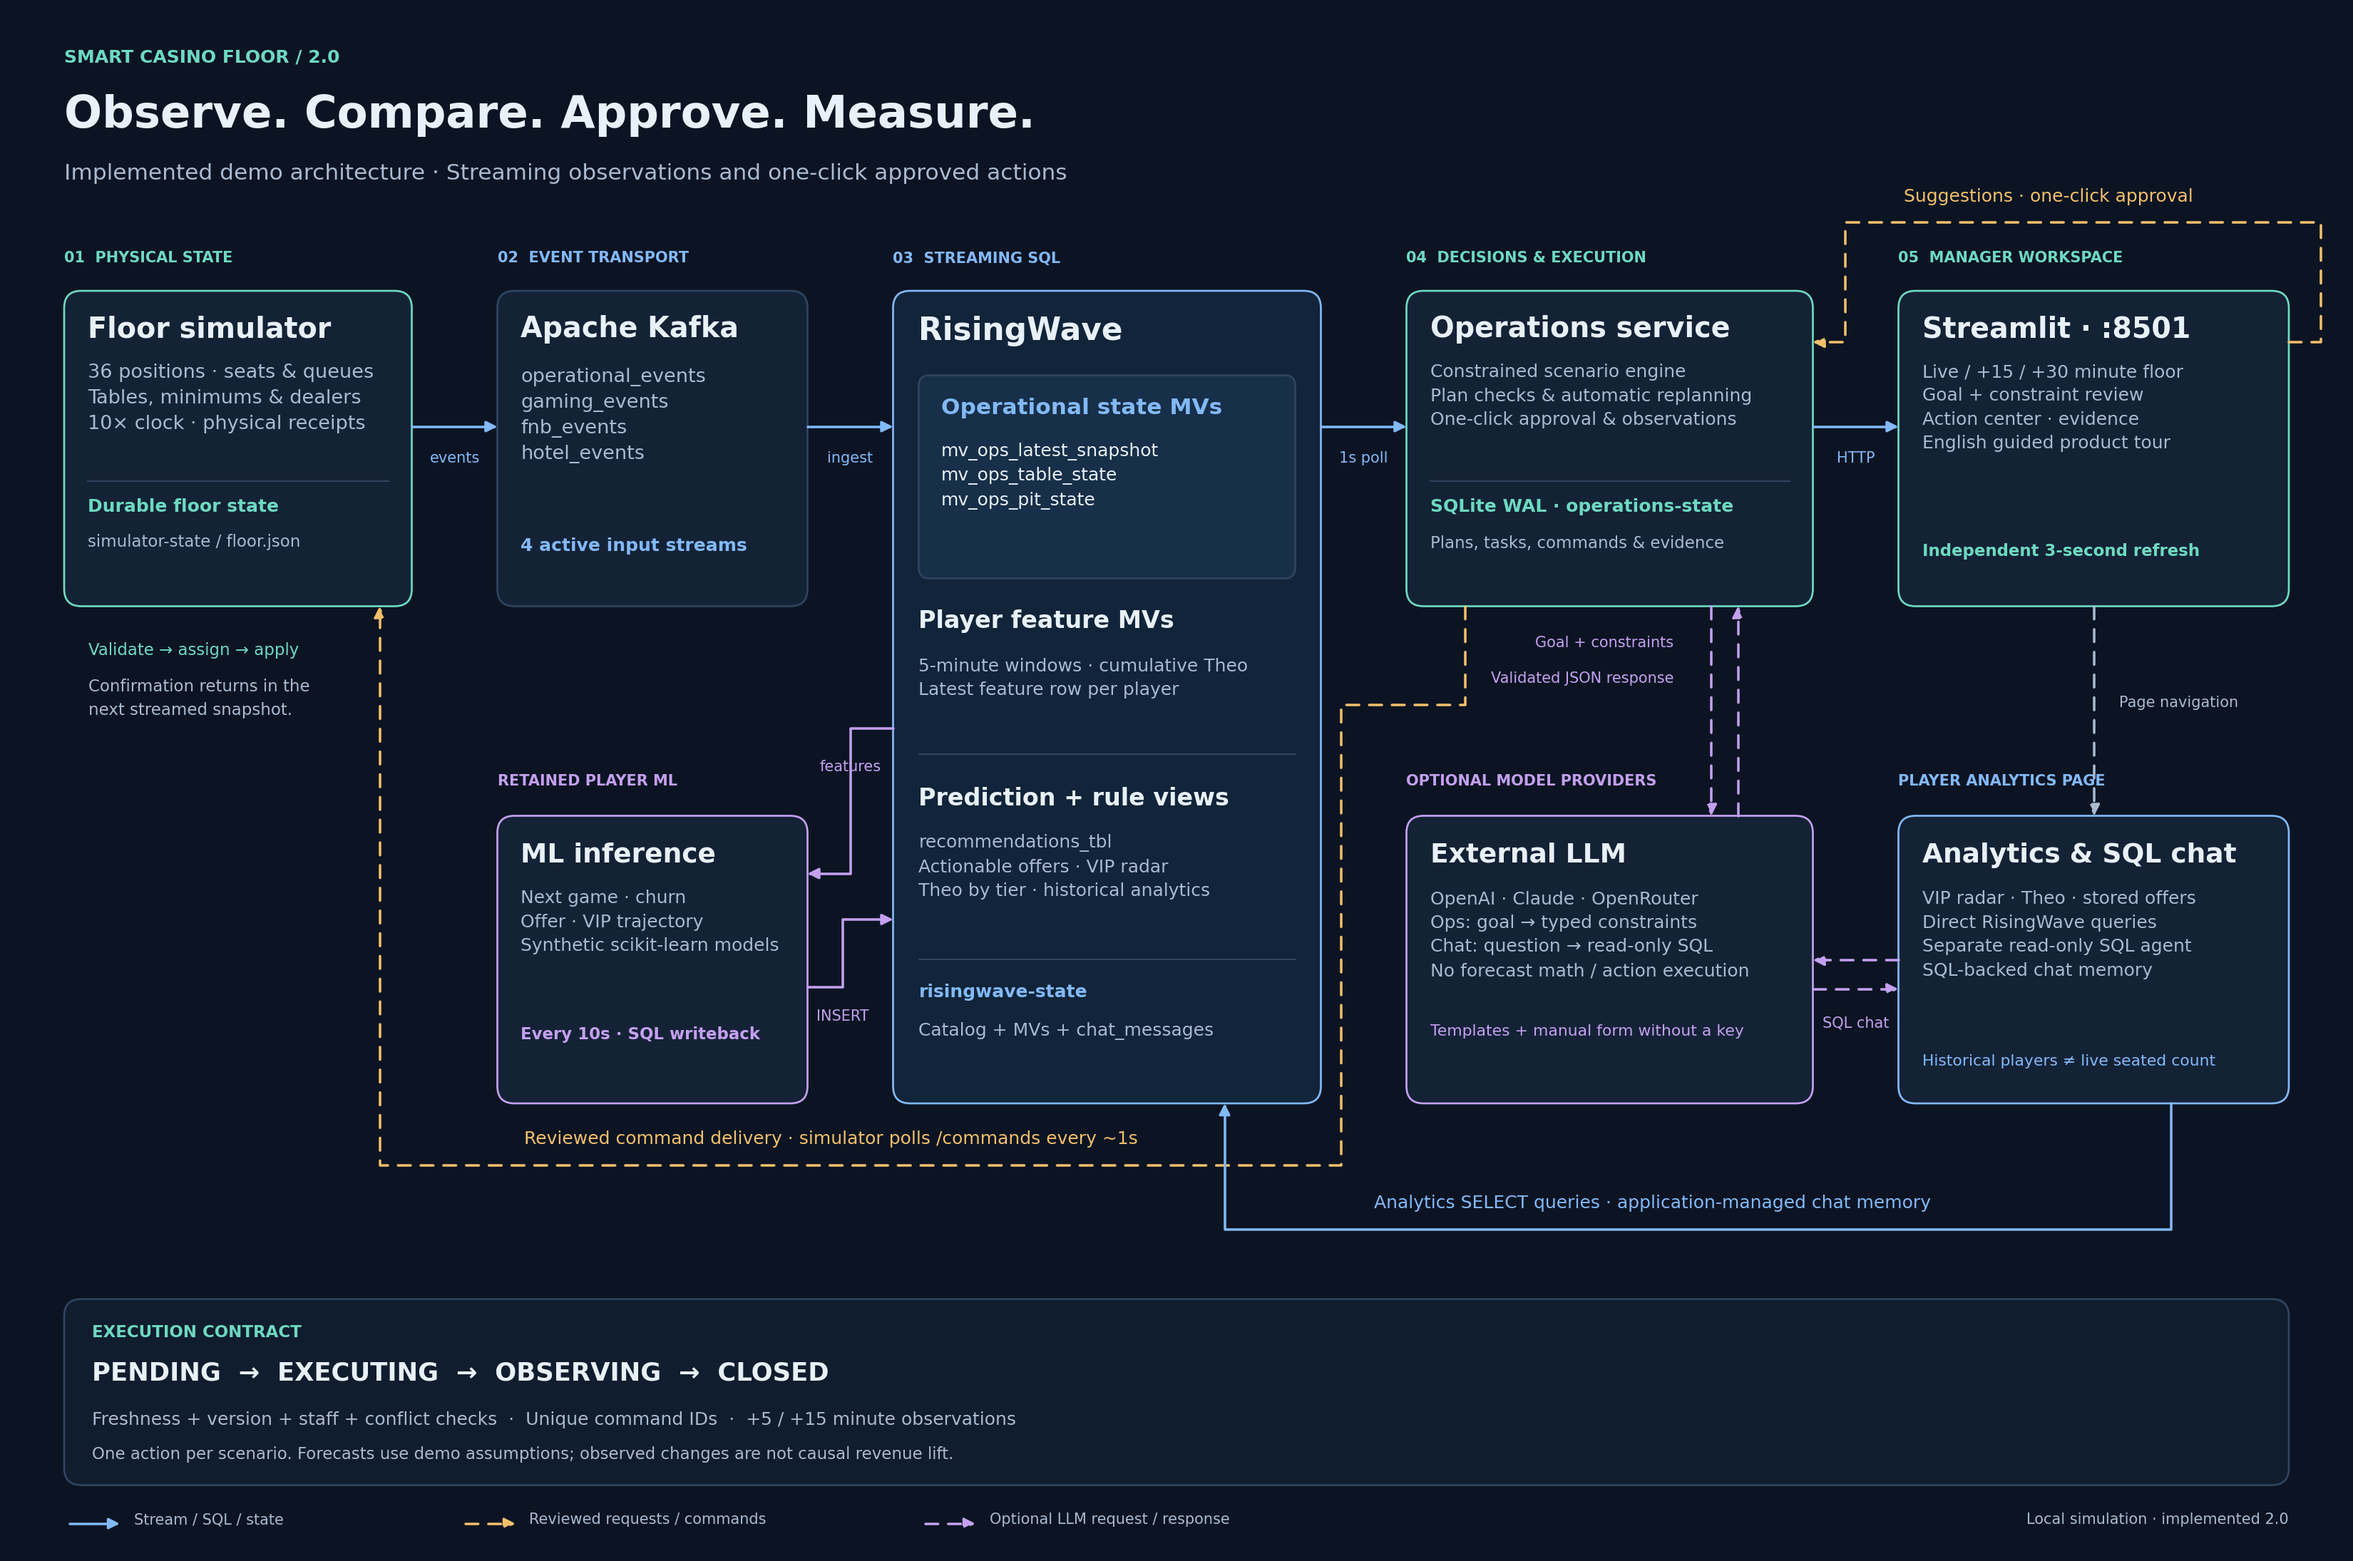
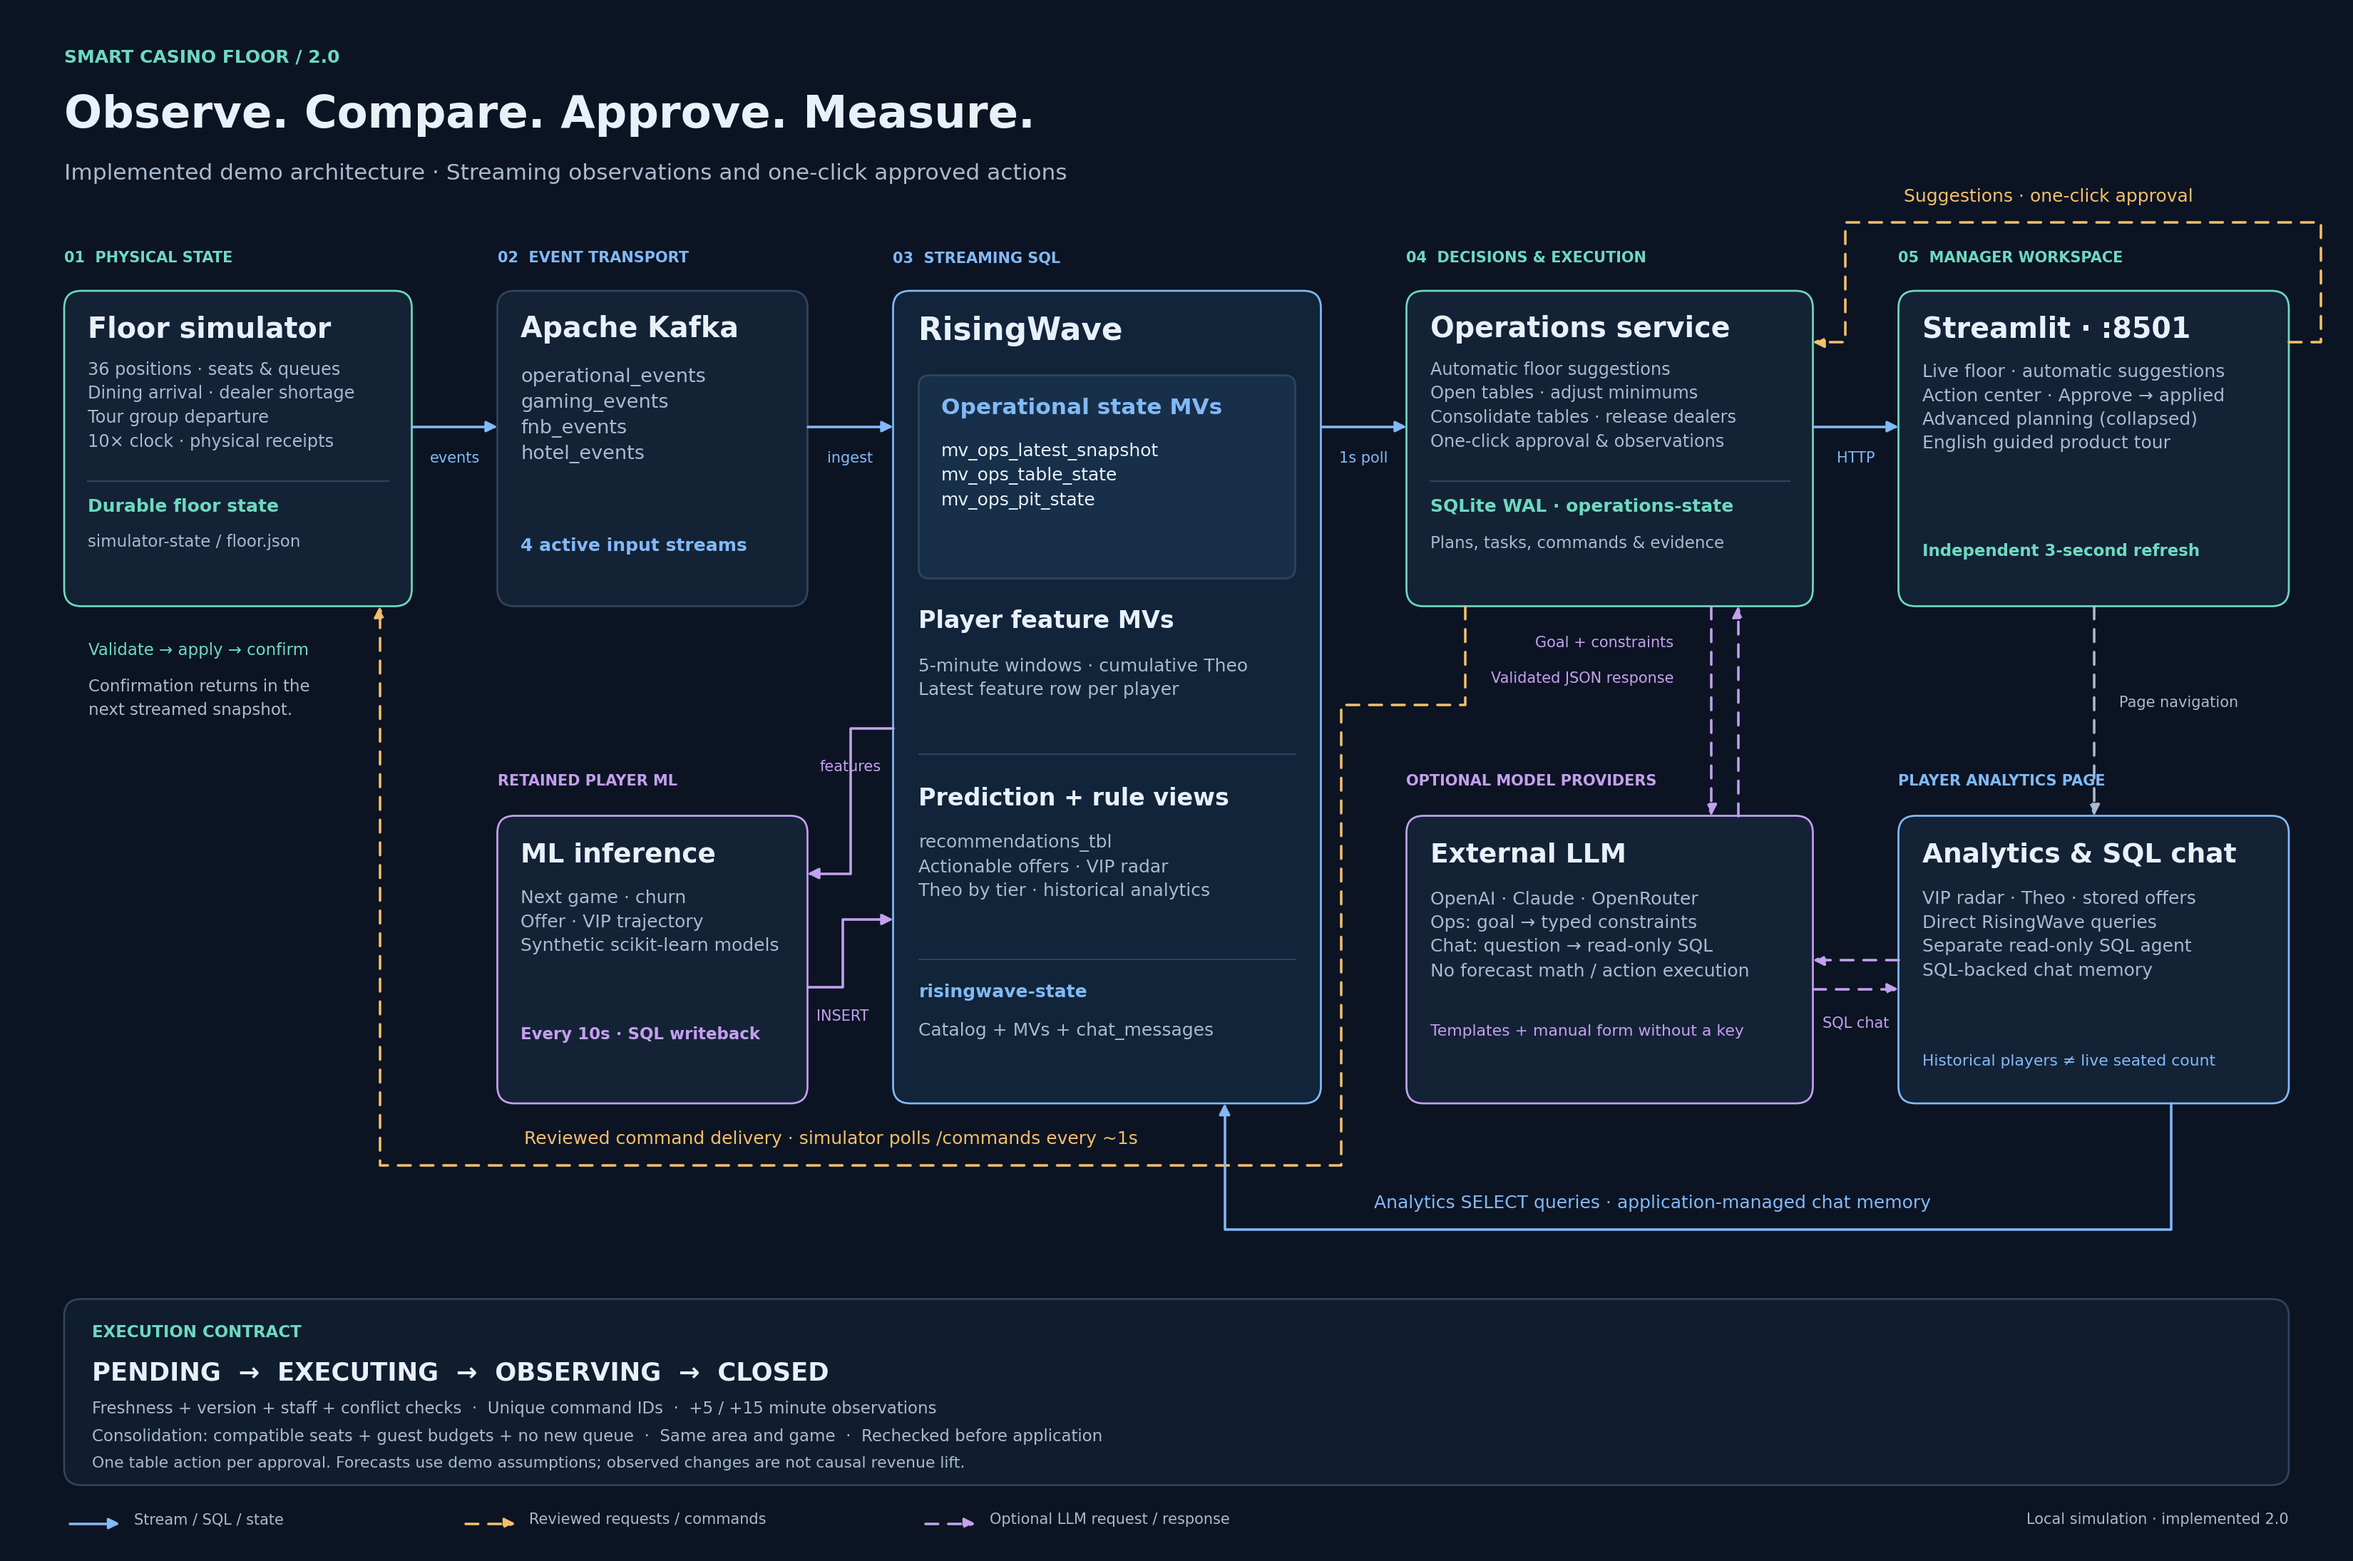
Update architecture diagram for operational demo scenarios

diff --git a/architecture.py b/architecture.py
@@ -59,7 +59,7 @@ def render():
     badge(60, 235, "01  PHYSICAL STATE", TEAL)
     box(60, 272, 325, 295, TEAL)
     label(82, 295, "Floor simulator", 19, TEXT, "bold")
-    label(82, 340, "36 positions · seats & queues\nTables, minimums & dealers\n10× clock · physical receipts", 13, MUTED)
+    label(82, 338, "36 positions · seats & queues\nDining arrival · dealer shortage\nTour group departure\n10× clock · physical receipts", 11.5, MUTED)
     ax.plot([82, 363], [450, 450], color=BORDER, lw=1)
     label(82, 466, "Durable floor state", 12, TEAL, "bold")
     label(82, 499, "simulator-state / floor.json", 11, MUTED)
@@ -88,7 +88,7 @@ def render():
     badge(1315, 235, "04  DECISIONS & EXECUTION", TEAL)
     box(1315, 272, 380, 295, TEAL)
     label(1337, 295, "Operations service", 19, TEXT, "bold")
-    label(1337, 340, "Constrained scenario engine\nPlan checks & automatic replanning\nOne-click approval & observations", 12, MUTED)
+    label(1337, 338, "Automatic floor suggestions\nOpen tables · adjust minimums\nConsolidate tables · release dealers\nOne-click approval & observations", 11.5, MUTED)
     ax.plot([1337, 1673], [450, 450], color=BORDER, lw=1)
     label(1337, 466, "SQLite WAL · operations-state", 12, TEAL, "bold")
     label(1337, 501, "Plans, tasks, commands & evidence", 11, MUTED)
@@ -96,7 +96,7 @@ def render():
     badge(1775, 235, "05  MANAGER WORKSPACE", TEAL)
     box(1775, 272, 365, 295, TEAL)
     label(1797, 295, "Streamlit · :8501", 19, TEXT, "bold")
-    label(1797, 340, "Live / +15 / +30 minute floor\nGoal + constraint review\nAction center · evidence\nEnglish guided product tour", 12, MUTED)
+    label(1797, 340, "Live floor · automatic suggestions\nAction center · Approve → applied\nAdvanced planning (collapsed)\nEnglish guided product tour", 12, MUTED)
     label(1797, 508, "Independent 3-second refresh", 11, TEAL, "bold")
 
     for start, end in [(385, 465), (755, 835), (1235, 1315), (1695, 1775)]:
@@ -116,7 +116,7 @@ def render():
                      (1254, 1090), (355, 1090), (355, 567)]
     line(command_route, GOLD, True)
     label(490, 1057, "Reviewed command delivery · simulator polls /commands every ~1s", 12, GOLD)
-    label(83, 601, "Validate → assign → apply", 11, TEAL)
+    label(83, 601, "Validate → apply → confirm", 11, TEAL)
     label(83, 635, "Confirmation returns in the\nnext streamed snapshot.", 11, MUTED)
 
     # Player ML is a separate analytics loop; it does not control operational tasks.
@@ -161,8 +161,9 @@ def render():
     box(60, 1215, 2080, 174, BORDER, "#101d2e")
     label(86, 1239, "EXECUTION CONTRACT", 11, TEAL, "bold")
     label(86, 1273, "PENDING  →  EXECUTING  →  OBSERVING  →  CLOSED", 17, TEXT, "bold")
-    label(86, 1320, "Freshness + version + staff + conflict checks  ·  Unique command IDs  ·  +5 / +15 minute observations", 12, MUTED)
-    label(86, 1353, "One action per scenario. Forecasts use demo assumptions; observed changes are not causal revenue lift.", 11, MUTED)
+    label(86, 1310, "Freshness + version + staff + conflict checks  ·  Unique command IDs  ·  +5 / +15 minute observations", 11, MUTED)
+    label(86, 1336, "Consolidation: compatible seats + guest budgets + no new queue  ·  Same area and game  ·  Rechecked before application", 11, MUTED)
+    label(86, 1362, "One table action per approval. Forecasts use demo assumptions; observed changes are not causal revenue lift.", 10.5, MUTED)
 
     # Small, consistent legend; use labels as well as colors.
     line([(65, 1425), (112, 1425)], BLUE)
